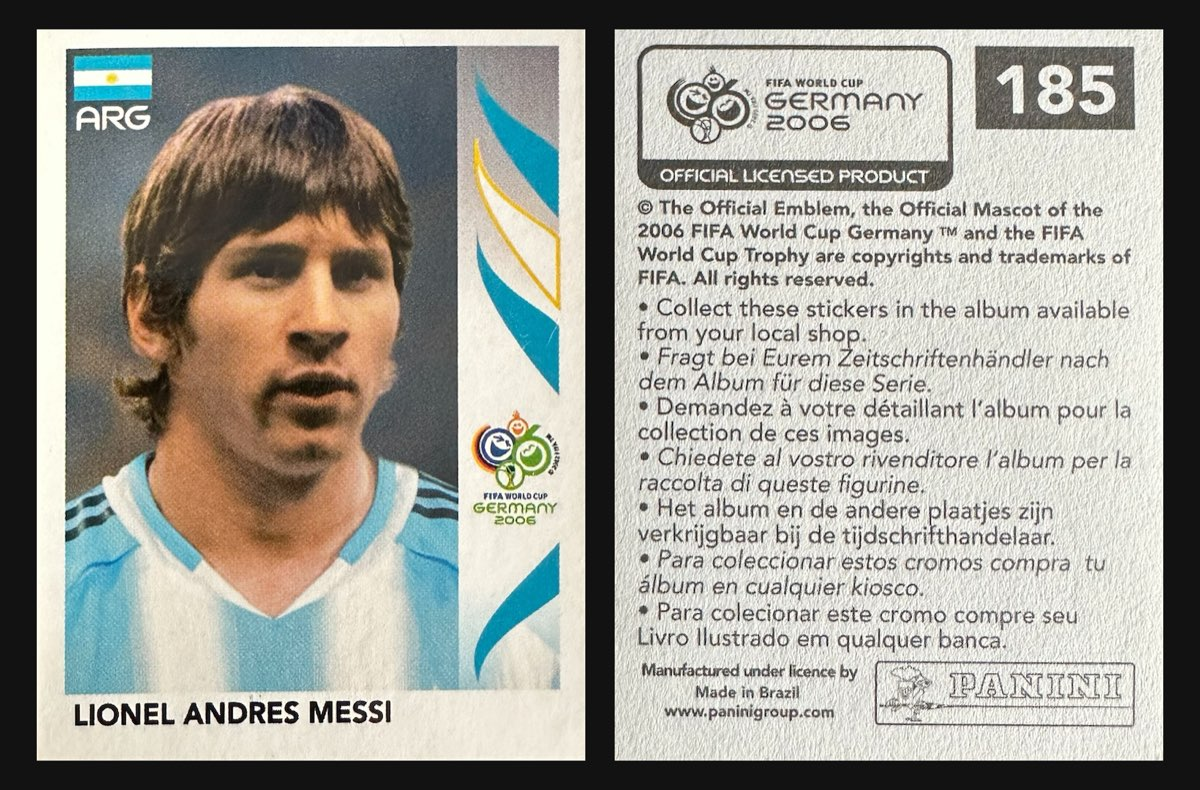
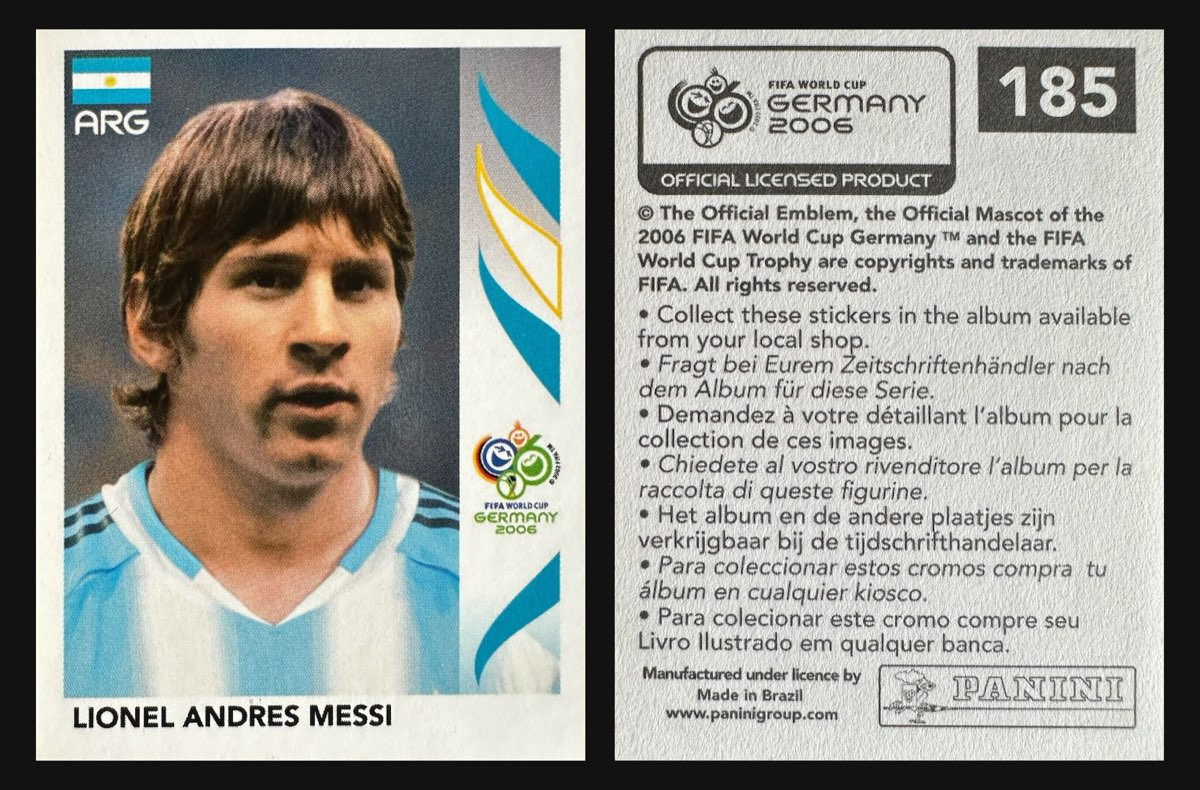
v1.49.4: retaken photos of Messi and Ronaldo 2006 Made in Brazil and Messi 2018 Gold

diff --git a/index.html b/index.html
@@ -32,7 +32,7 @@
       <!-- Back button (year pages) -->
       <div class="inv-title-row" id="title-bar">
         <button class="gallery-back-btn" id="gallery-back" type="button" aria-label="Atrás" title="Atrás" hidden><svg width="26" height="26" viewBox="0 0 24 24" fill="none" stroke="currentColor" stroke-width="2.5" stroke-linecap="round" stroke-linejoin="round" aria-hidden="true"><path d="M15 19l-7-7 7-7"/></svg></button>
-        <h1 class="inv-title" tabindex="-1"><span id="inv-title-text">Colección Panini</span><span class="inv-version">v1.49.3</span></h1>
+        <h1 class="inv-title" tabindex="-1"><span id="inv-title-text">Colección Panini</span><span class="inv-version">v1.49.4</span></h1>
         <!-- The small title shown once the bar is stuck -->
         <span class="title-bar-text" id="title-bar-text" aria-hidden="true">Colección Panini</span>
         <!-- Arrows to the year before and after -->
